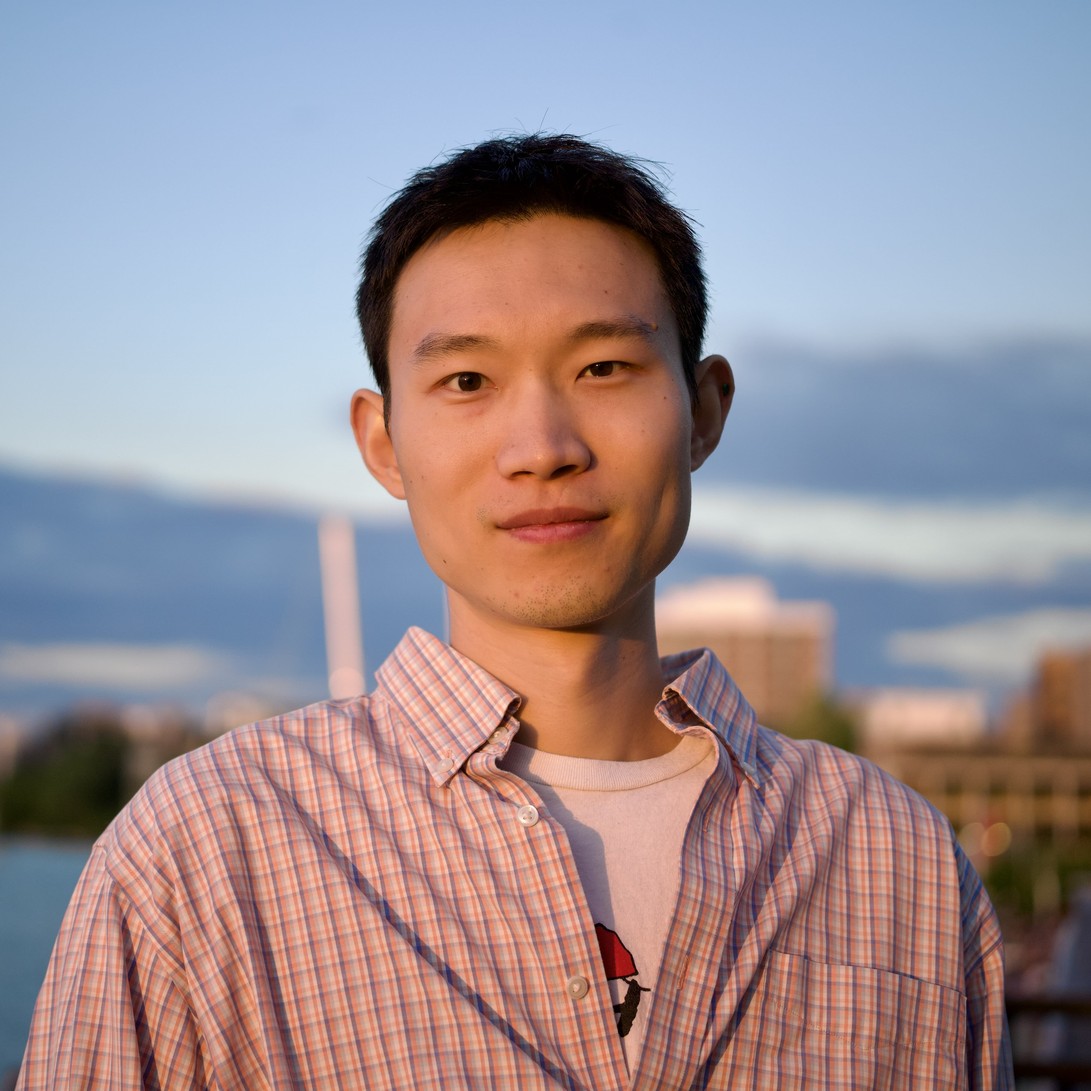
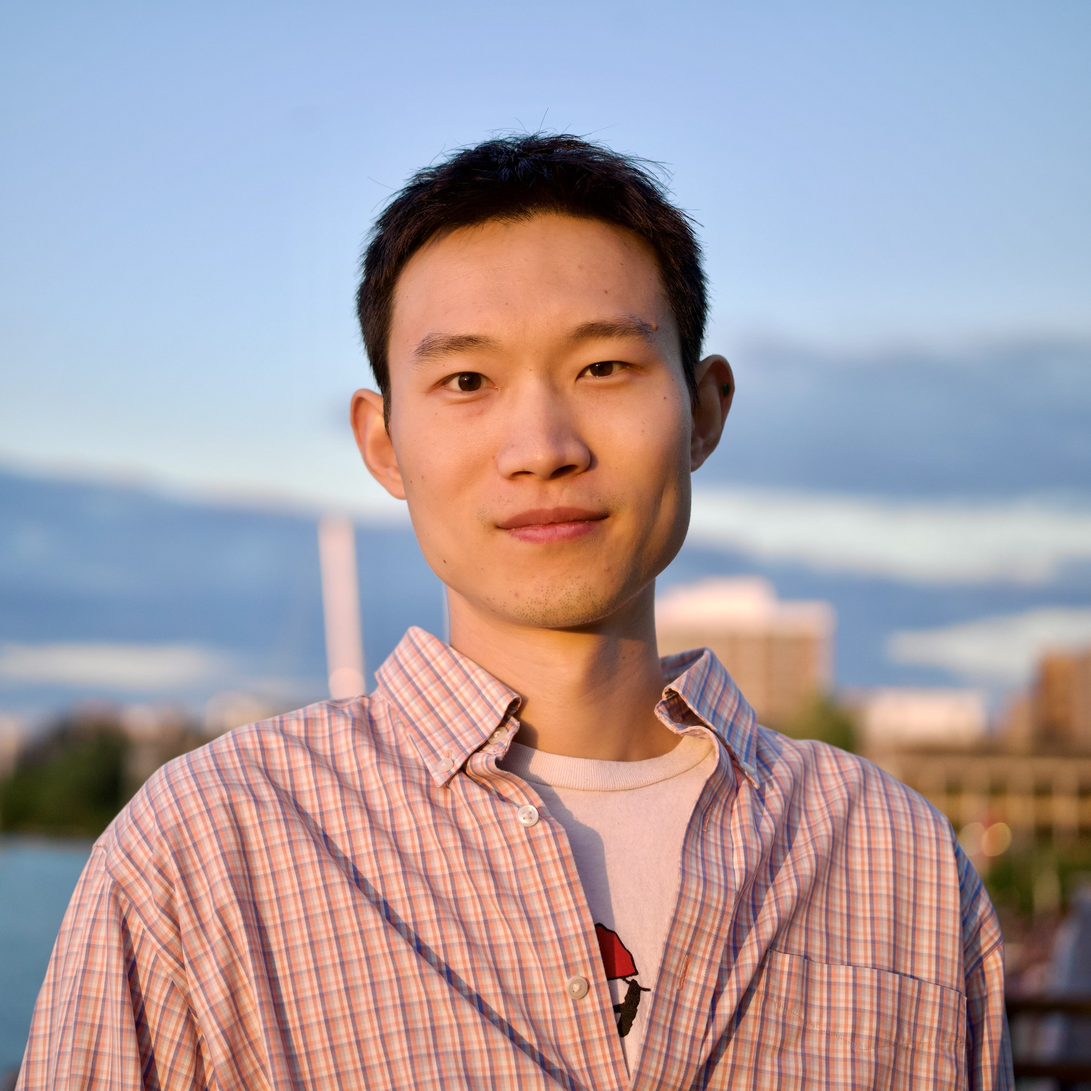
update

diff --git a/_layouts/talks.html b/_layouts/talks.html
@@ -68,7 +68,7 @@ title: Talks
 
                     <p class='post-subtitle'>
                         <span class='ttype'>Poster</span> &middot; "A Regime-Dependent Multi-Model Framework for Data Assimilation and Prediction" &nbsp; <a href="/poster/RIGMEnKFPoster.png">[<em>poster</em>]</a><br>
-                        <a href="https://www.imsi.institute/activities/unpacking-ai-weather-emulators/">IMSI — Unpacking AI Weather Emulators</a> &nbsp;&middot;&nbsp; <span class='where'>Chicago, USA, Sep 28–Oct 2, 2026</span> &nbsp;&middot;&nbsp; upcoming
+                        <a href="https://www.imsi.institute/activities/unpacking-ai-weather-emulators/">IMSI — Unpacking AI Weather Emulators</a> &nbsp;&middot;&nbsp; <span class='where'>Chicago, USA, Sep 28–Oct 2, 2026</span>
                     </p>
 
                     <p class='post-subtitle'>
@@ -89,13 +89,13 @@ title: Talks
                     <p class='year-head'>2025</p>
 
                     <p class='post-subtitle'>
-                        <span class='ttype'>Lightning talk</span> &middot; <a href="https://www.sciencedirect.com/science/article/abs/pii/S004578252500461X">Conditional Gaussian Koopman Network (CGKN)</a> &nbsp; <a href="/slides/CGKN4PDEs_lightning.pdf">[<em>slides</em>]</a><br>
-                        <a href="https://sites.google.com/nyu.edu/ccam-workshop/home">Scientific Machine Learning: Theory, Algorithms, and Applications workshop</a> &nbsp;&middot;&nbsp; <span class='where'>Purdue University, USA, Sep 27–28, 2025</span>
+                        <span class='ttype'>Poster</span> &middot; <a href="https://www.sciencedirect.com/science/article/abs/pii/S004578252500461X">Conditional Gaussian Koopman Network (CGKN)</a> &nbsp; <a href="/poster/CGKNPoster.pdf">[<em>poster</em>]</a><br>
+                        <a href="https://www.imsi.institute/activities/digital-twins/data-assimilation-and-inverse-problems-for-digital-twins/">IMSI &mdash; Data Assimilation and Inverse Problems for Digital Twins</a> &nbsp;&middot;&nbsp; <span class='where'>Chicago, USA, Oct 6–10, 2025</span>
                     </p>
 
                     <p class='post-subtitle'>
-                        <span class='ttype'>Poster</span> &middot; <a href="https://www.sciencedirect.com/science/article/abs/pii/S004578252500461X">Conditional Gaussian Koopman Network (CGKN)</a> &nbsp; <a href="/poster/CGKNPoster.pdf">[<em>poster</em>]</a><br>
-                        <a href="https://www.imsi.institute/activities/digital-twins/opening-tutorial-mathematical-statistical-foundations-of-data-assimilation-for-digital-twins/">IMSI Digital Twins workshop</a> &nbsp;&middot;&nbsp; <span class='where'>Chicago, USA, Sep 15–19, 2025</span>
+                        <span class='ttype'>Lightning talk</span> &middot; <a href="https://www.sciencedirect.com/science/article/abs/pii/S004578252500461X">Conditional Gaussian Koopman Network (CGKN)</a> &nbsp; <a href="/slides/CGKN4PDEs_lightning.pdf">[<em>slides</em>]</a><br>
+                        <a href="https://sites.google.com/nyu.edu/ccam-workshop/home">Scientific Machine Learning: Theory, Algorithms, and Applications workshop</a> &nbsp;&middot;&nbsp; <span class='where'>Purdue University, USA, Sep 27–28, 2025</span>
                     </p>
 
                     <p class='post-subtitle'>
